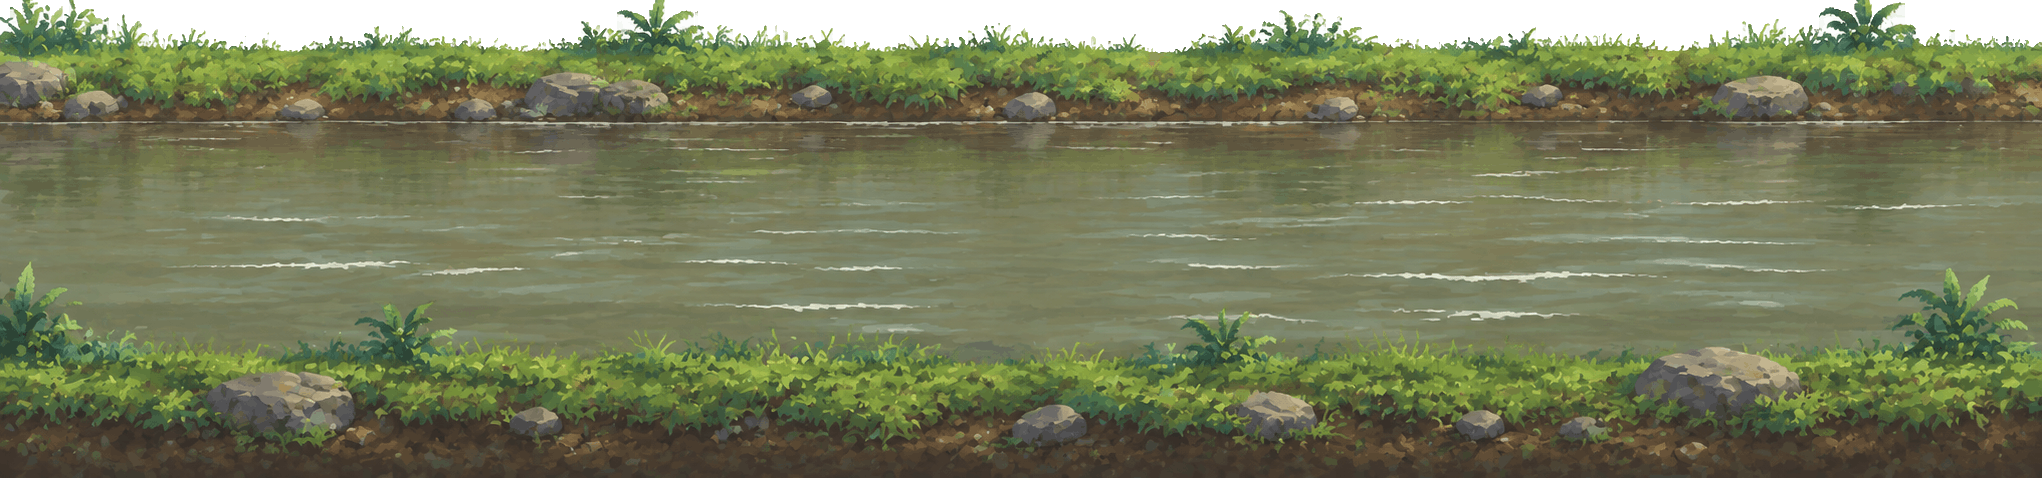
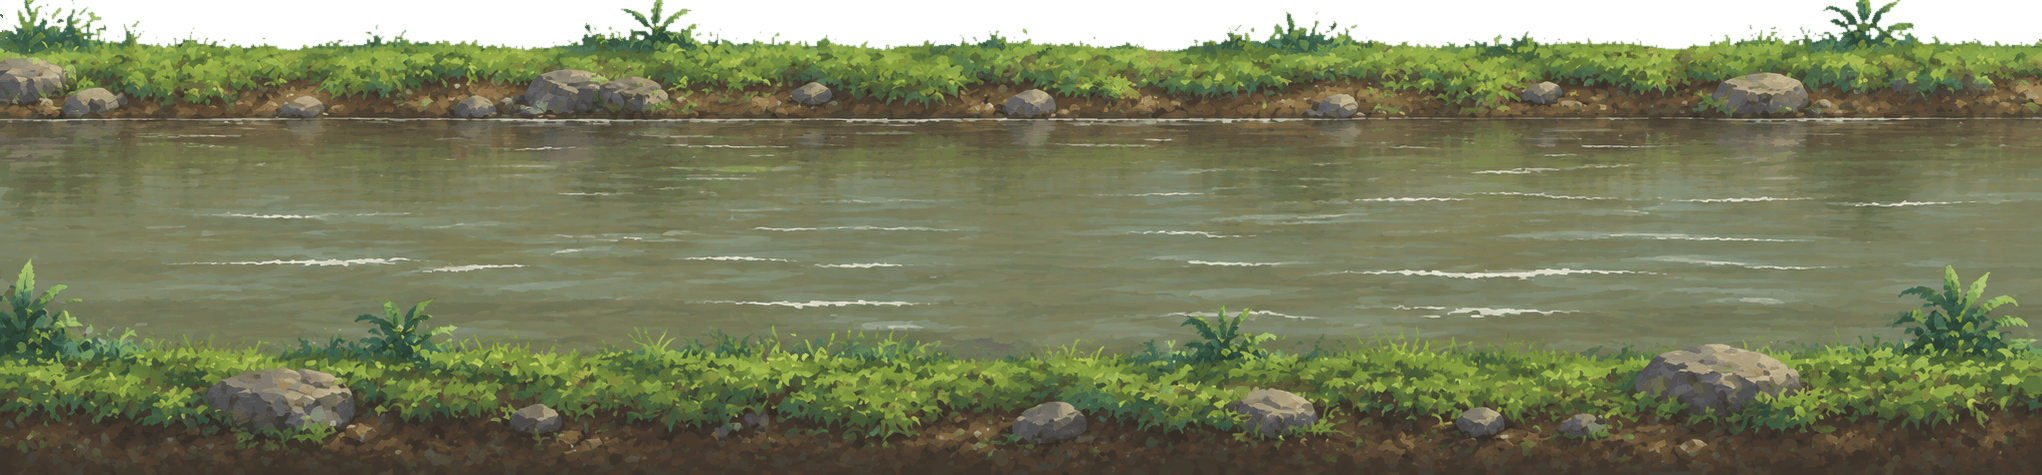
Act II fixes from the live site: lesson lock, river edge, dirt, trees
The talk lesson stopped the world until the student talked to someone,
and nobody can be talked to mid-fight, so a fight that began with the
card up never ended. It is now put away, unlearned, once enemies are
up, and a story point after Act I starts with every lesson learned.
verify_new_scene.js checks the first.

The river's far bank lost the checkerboard's pale fringe and the pale
pockets shut in by its leaves. San Juan's dirt stands with its solid
edge at the feet (lip 9) and its works on it. Act I's tree rows are
taken out of Act II's fields: the sky, and the river, are enough.

diff --git a/content/act2.js b/content/act2.js
@@ -125,22 +125,25 @@
 
   // ---- The fields and the rooms, in layers (Block 142) -----------------
   // San Juan del Monte and the Nangka as Tondo is drawn: the Sierra Madre
-  // far off (rate 0), Act I's lowland trees twice (far and pale, near and
-  // tall), the place's own buildings and props on the road, and its
-  // ground. [name, x, height in world pixels] for each piece, Macario
-  // being 134; drawn in order, so a prop listed after a building stands
-  // in front of it.
-  const field = (list) => list.map(([name, x, height]) => ({
-    src: `assets/sprites/buildings/${name}.png`, x, height, lift: 4,
+  // far off (rate 0), the place's own buildings and props on the road,
+  // and its ground. No tree rows (the proponent, 24 Oct 2026: Act I's
+  // lowland trees did not fit here; the sky and the river are enough).
+  // [name, x, height in world pixels] for each piece, Macario being 134;
+  // drawn in order, so a prop listed after a building stands in front of
+  // it.
+  const field = (list, lift = 4) => list.map(([name, x, height]) => ({
+    src: `assets/sprites/buildings/${name}.png`, x, height, lift,
   }));
-  const fieldLayers = (width, more) => [
+  const fieldLayers = (more) => [
     { src: "assets/backgrounds/layers/sierra-sky.jpg", rate: 0, lift: 50 },
-    { rate: 0.3, lift: 64, items: TONDO.treeRow ? TONDO.treeRow(0.3 * width + 2600, 230, 260, 0.42, 40) : [],
-      filter: "saturate(0.55) brightness(1.1) contrast(0.8)" },
-    { rate: 0.6, lift: 60, items: TONDO.treeRow ? TONDO.treeRow(0.6 * width + 2600, 520, 640, 1, 160) : [],
-      filter: "saturate(1.05)" },
     ...(more || []),
   ];
+  // Tondo's dirt with its solid edge at the feet. The picture is drawn
+  // into the strip's height (GROUND_LEVEL + lip), its ragged top the first
+  // 15/148 of it: at lip 14 the solid dirt stood 7 above the feet, which
+  // in front of an open sky, rather than houses, read as feet sunk in; at
+  // 6 a line of sky showed under them. At 9 the edge is 2 above the soles.
+  const FIELD_DIRT = TONDO.ground && { ...TONDO.ground, lip: 9 };
   // San Juan: an open field from the start, then the Spanish works on the
   // right, where the charge goes: the guard post, the palisade and its
   // gate, the polvorin (its door where the retreat starts, clear of the
@@ -151,7 +154,7 @@
     ["polvorin", 3380, 280], ["bandila-espanya", 3980, 430],
     ["kahon-sundalo", 480, 100], ["sako-buhangin", 1060, 70], ["sako-buhangin", 1660, 70],
     ["kahon-sundalo", 1990, 100], ["bariles-pulbura", 3250, 120],
-  ]);
+  ], 0); // on the dirt's edge (FIELD_DIRT), not above it with sky between
   // The Nangka: the river behind the near bank, open in the middle where
   // the straw lies, a fence at the camp's end and the farm at the other,
   // a footbridge out over the water between.
@@ -1398,7 +1401,7 @@
         id: "pugad-lawin",
         worldWidth: ROOM,
         // In layers since 24 Oct 2026, its painting retired.
-        layers: fieldLayers(ROOM),
+        layers: fieldLayers(),
         buildings: PUGAD_LAWIN_PIECES,
         ground: GRASS,
         frontGrass: true,
@@ -1463,9 +1466,9 @@
         // Block 142: in layers (SAN_JUAN_PIECES), the polvorin at the
         // right end. A shadow tree at every 1300 (1300, 2600, 3900),
         // clear of the retreat's checkpoints.
-        layers: fieldLayers(BATTLE_WIDTH),
+        layers: fieldLayers(),
         buildings: SAN_JUAN_PIECES,
-        ground: TONDO.ground,
+        ground: FIELD_DIRT,
         frontGrass: true,
         panelWidth: 1300,
         dangerous: true,
@@ -1517,7 +1520,7 @@
         worldWidth: RIVER_WIDTH,
         // Block 142: in layers, the river behind the bank (NANGKA_RIVER,
         // NANGKA_PIECES). One shadow tree, at 1250, between the straw.
-        layers: fieldLayers(RIVER_WIDTH, [NANGKA_RIVER]),
+        layers: fieldLayers([NANGKA_RIVER]),
         buildings: NANGKA_PIECES,
         ground: GRASS,
         frontGrass: true,
@@ -1565,7 +1568,7 @@
         id: "balara",
         worldWidth: ROOM,
         // In layers since 24 Oct 2026, its painting retired.
-        layers: fieldLayers(ROOM),
+        layers: fieldLayers(),
         buildings: BALARA_PIECES,
         ground: GRASS,
         frontGrass: true,
@@ -1626,7 +1629,7 @@
         id: "laguna",
         worldWidth: ROOM,
         // In layers since 24 Oct 2026, its painting retired.
-        layers: fieldLayers(ROOM, [NANGKA_RIVER]),
+        layers: fieldLayers([NANGKA_RIVER]),
         buildings: LAGUNA_PIECES,
         ground: GRASS,
         frontGrass: true,

diff --git a/_dev/tests/verify_new_scene.js b/_dev/tests/verify_new_scene.js
@@ -2056,6 +2056,20 @@ const fastChecks = require(path.join(ROOT, "_dev", "tools", "lib", "checks.js"))
       await p.waitForTimeout(200);
       ok("and any answer, here an attack, lets it go", !(await cardOf()).shown &&
          await p.evaluate(() => state.flags.__turo_tanda === true));
+
+      // A talk lesson up when a fight starts cannot be done (nobody talks
+      // mid-fight) and would hold the fight forever: it is put away,
+      // unlearned (seen on the live site from Act II's story points).
+      await p.evaluate(() => { ENEMIES.forEach((e) => { if (!e.dead) hitEnemy(e, 99); }); });
+      await p.waitForTimeout(800);
+      await p.evaluate(() => { delete state.flags.__turo_usap; teach("usap"); });
+      const up = await waitCard(/kausapin/);
+      await p.evaluate(() => { spawnEnemies([{ type: "siga1", id: "usap-laban", x: posX + 300 }]); });
+      await p.waitForTimeout(400);
+      const down = await p.evaluate(() => ({ card: !document.getElementById("tutorial-card").classList.contains("hidden"),
+        learned: state.flags.__turo_usap === true, enemies: ENEMIES.filter((e) => !e.dead).length }));
+      ok("a talk lesson still up when a fight starts is put away, unlearned, and the fight goes on",
+         up.shown && !down.card && !down.learned && down.enemies === 1, { up, down });
       await tt.ctx.close();
     }
   }

diff --git a/js/game.js b/js/game.js
@@ -8561,6 +8561,10 @@ function gameLoop(now) {
     nearby = findNearby();
     // Block 92. The first person within reach is taught to be talked to.
     if (nearby.type === "npc" && !nearby.ref.scenery && !nearby.ref.interactLabel && !tutorial) teach("usap", true);
+    // Nobody can be talked to mid-fight (findNearby), so a talk lesson
+    // still up when a fight starts could never be done, and with the world
+    // stopped for it the fight could never end. It is put away, unlearned.
+    if (tutorial && tutorial.id === "usap" && enemiesAlive()) cancelTutorial("usap");
     if (nearby.type === "npc" && npcOpensShop(nearby.ref)) {
       setLabel(btnInteract, "Tindahan");
       setClass(btnInteract, "active", true);
@@ -8864,6 +8868,9 @@ async function enterGameAsGuest(jumpId) {
   if (jump) {
     Object.assign(state.flags, jump.flags);
     currency = jump.currency || 0;
+    // A point after Act I comes after every lesson Act I teaches, as it
+    // would for a student who played it: none of them comes up again.
+    if (actNumber > 1) Object.keys(TUTORIALS).forEach((t) => { state.flags["__turo_" + t] = true; });
   }
 
   if (window.Acts && act) {

diff --git a/index.html b/index.html
@@ -638,14 +638,14 @@
   <script src="js/supabaseClient.js?v=2770937222"></script>
   <script src="content/enemies.js?v=3266858457"></script>
   <script src="content/people.js?v=1607945421"></script>
-  <script src="content/act1.js?v=2281479972"></script>
-  <script src="content/act2.js?v=566649415"></script>
+  <script src="content/act1.js?v=3377113433"></script>
+  <script src="content/act2.js?v=717695579"></script>
   <script src="content/act3.js?v=1524616740"></script>
   <script src="content/act4.js?v=209445227"></script>
   <script src="content/items.js?v=1936794751"></script>
   <script src="content/questions.js?v=3416852880"></script>
-  <script src="js/asset-manifest.js?v=4219217573"></script>
-  <script src="js/game.js?v=4107036269"></script>
+  <script src="js/asset-manifest.js?v=40034100"></script>
+  <script src="js/game.js?v=3405004597"></script>
   <script src="js/acts.js?v=49959917"></script>
   <script src="js/inventory.js?v=1012480451"></script>
   <script src="js/assessment.js?v=3475551511"></script>

diff --git a/teacher.html b/teacher.html
@@ -382,8 +382,8 @@
   <script src="content/enemies.js?v=3266858457"></script>
   <script src="content/people.js?v=1607945421"></script>
   <script src="content/items.js?v=1936794751"></script>
-  <script src="content/act1.js?v=2281479972"></script>
-  <script src="content/act2.js?v=566649415"></script>
+  <script src="content/act1.js?v=3377113433"></script>
+  <script src="content/act2.js?v=717695579"></script>
   <script src="content/act3.js?v=1524616740"></script>
   <script src="content/act4.js?v=209445227"></script>
   <!-- Block 132. Before teacher.js, which may reach it before the next

diff --git a/js/asset-manifest.js b/js/asset-manifest.js
@@ -297,7 +297,7 @@ window.ASSET_VERSIONS = {
   "assets/backgrounds/act4/selda.jpg": "3485017595",
   "assets/backgrounds/layers/dirt-ground.png": "307452694",
   "assets/backgrounds/layers/grass-ground.png": "1231327143",
-  "assets/backgrounds/layers/river.png": "2769420695",
+  "assets/backgrounds/layers/river.png": "3482582509",
   "assets/backgrounds/layers/sierra-sky.jpg": "1002675435",
   "assets/backgrounds/layers/tondo-sky.jpg": "3615432616",
   "assets/backgrounds/rooms/floor-entablado.png": "2777470596",

diff --git a/content/act1.js b/content/act1.js
@@ -135,7 +135,6 @@ const TONDO_BUILDINGS = tondoBuildings(TONDO_HOUSES, TONDO_PROPS);
 window.TONDO_STREET = {
   layers: TONDO_LAYERS, ground: TONDO_GROUND,
   houses: TONDO_HOUSES, props: TONDO_PROPS, buildings: tondoBuildings,
-  treeRow, // the lowland trees, for Act II's fields
 };
 
 // ---- Art ----------------------------------------------------------

diff --git a/DECISIONS.md b/DECISIONS.md
@@ -6382,6 +6382,21 @@ night does not darken it; a missing building draws nothing, so it
 appears the moment its picture is cut in. The three paintings are
 retired.
 
+Four things the proponent found on the live site the same day. The
+talk lesson (Block 92) stops the world until the student talks to
+someone, and nobody can be talked to mid-fight: a fight that started
+with the card up could never end. The card is now put away, unlearned,
+the moment enemies are up, and a story point after Act I starts with
+every lesson learned, as a student who played Act I would. The river
+kept the checkerboard's pale, half-blended edge, and pockets of it shut
+in by the leaves; a second pass cleared both on the far bank only. At
+San Juan the dirt's solid edge stood 7 above the feet (the picture is
+drawn into GROUND_LEVEL + lip, its ragged top the first 15/148): open
+sky behind, rather than houses, made that read as sunk. Lip 9 puts it
+2 above the soles, and the works stand on it (lift 0). And Act I's tree
+rows were taken out of Act II's fields: the Sierra's sky, and the
+river where there is one, are enough.
+
 ## Moved from CLAUDE.md (Block 110, Scan S36)
 
 History taken out of CLAUDE.md, word for word, so the file every

diff --git a/TRACKER.md b/TRACKER.md
@@ -335,6 +335,11 @@ Scenes:
         where the retreat starts) on the dirt, the Nangka's river and
         farm on the grass; trees at every 1300 and 1250; the paintings
         retired to docs-private/art-delivered/
+    [x] Act II's fixes from the live site (24 Oct 2026): the talk
+        lesson that locked a fight (put away when a fight starts; story
+        points after Act I start with every lesson learned); the river's
+        pale fringe cleared; San Juan's dirt edge at the feet (lip 9) and
+        its pieces on it; the tree rows taken out of Act II
     [ ] burol, morong (Act III; morong again in Act IV)
     [ ] himpilan, dimasalang, malabon, patyo (Act IV)
     [ ] in every scene: cover, hide spots, hazards and guard posts
